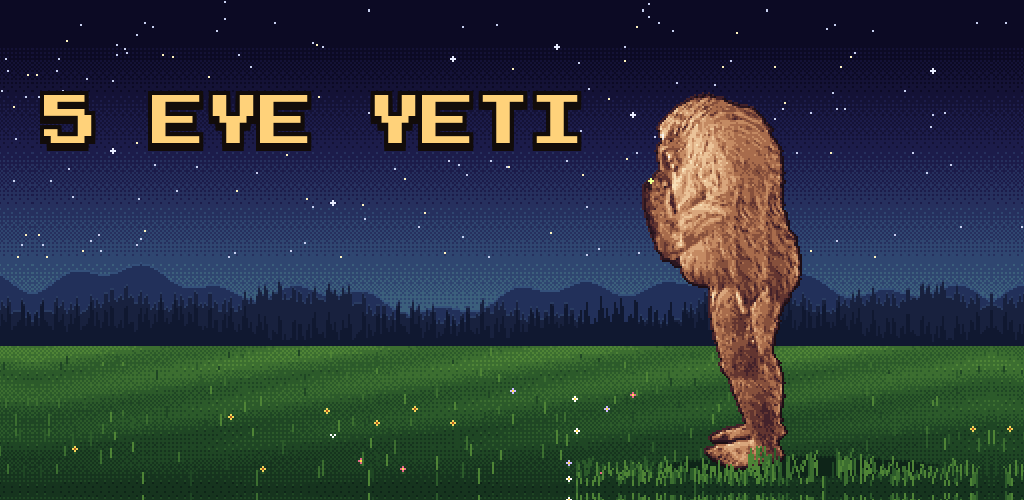
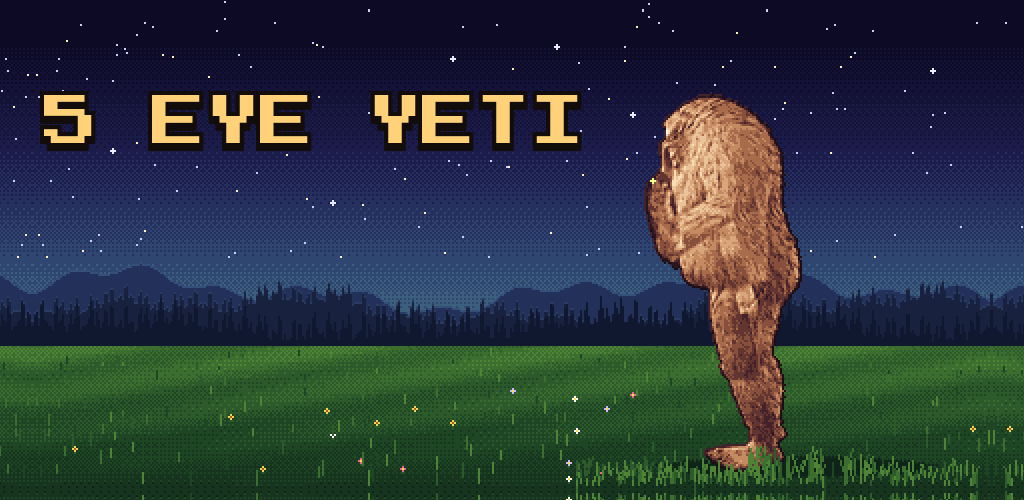
Title animation v3: turns by stepping round on his feet; one-knee kneel for the burying; legs carry one foot each (no doubled legs); body ends on the hip line (no ghost thigh); smooth fill where the arm was (no patches); longer, softer neck bend
Claude-Session: https://claude.ai/code/session_01JpLHzsYAvEKzmccr94t7N9

Changed region(s): [[0.625, 0.18, 0.8438, 0.96]]

diff --git a/android/play/concepts/pixel/story3.py b/android/play/concepts/pixel/story3.py
@@ -1,0 +1,260 @@
+"""5 Eye Yeti title story, v2. The yeti minds his own business in a starlit clearing:
+watches a firefly, swipes with both hands and misses, steps after it, lunges and misses
+again as it zips over his head, then slowly cups his hands around it and claps them shut.
+He peeks at it, turns around (through his back, never toward the viewer), walks a couple
+of steps, kneels one knee at a time like a person, scratches a little hole, lays the
+firefly in, covers it with three scoops, pats it down, looks at it a moment, gets up the
+way people do (front foot, push, stand), turns back and idles while a new one drifts in.
+
+Channels are keyed separately and eased; his head follows the firefly when he watches it.
+Writes title_bg.png, title_fg.png, yeti_frames.png and title_story.json into OUT."""
+import sys, os, math, json, random
+sys.path.insert(0, '.')
+from PIL import Image
+import numpy as np
+import rig3, rig4, pxfast
+
+OUT = sys.argv[1]
+FPS = 15
+FEET = 228
+# ---------------- background (the clearing; no moon) and foreground grass
+src = open('yeti_dig.py').read()
+ns = {}
+exec(src[:src.index("# ---------------- frames")].replace("import siderig\n", "").replace("OUT = sys.argv[1]", "OUT = '" + OUT + "'").replace(
+    "for y in range(FEET - 7, FEET + 5):", "for y in range(0):").replace("for _ in range(30):   # loose clods", "for _ in range(0):   # loose clods").replace(
+    "FEET, BODYX = 228, 380", "FEET, BODYX = 228, 382"), ns)
+W, H, GRASS, rnd = ns['W'], ns['H'], ns['GRASS'], random.Random(21)
+
+# ---------------- keyframes
+CH = ['torso', 'head', 'nsh', 'nel', 'fsh', 'fel', 'nth', 'nsn', 'fth', 'fsn', 'hipx', 'lift', 'tuck', 'look', 'breath', 'bl', 'br']
+REST = dict(torso=0, head=0, nsh=-8, nel=0, fsh=-4, fel=0, nth=0, nsn=0, fth=0, fsn=0, hipx=392, lift=0, tuck=0, look=1, breath=1, bl=0, br=0)
+keys = {c: [] for c in CH}
+views = []        # (time, view, face)
+def K(t, **kw):
+    for c, v in kw.items(): keys[c].append((t, v))
+def V(t, view, face): views.append((t, view, face))
+HOLD = dict(nsh=-70, nel=-118, fsh=-64, fel=-110)
+STAND_LEGS = dict(nth=0, nsn=0, fth=0, fsn=0)
+
+K(0.0, **REST); V(0.0, 'S', 'L')
+# watching; then miss 1: crouch back (anticipation), two-handed swipe up-forward, clap on nothing
+K(1.0, torso=1, nsh=-8, fsh=-4, look=1, breath=1, **STAND_LEGS)
+K(1.28, torso=-5, nsh=18, nel=-10, fsh=24, fel=-10, nth=-12, nsn=24, fth=-12, fsn=24, breath=0)
+K(1.48, torso=13, nsh=-128, nel=-22, fsh=-118, fel=-32, nth=4, nsn=0, fth=4, fsn=0)
+K(1.6, nel=-8, fel=-14)
+K(2.05, torso=2, nsh=-12, nel=-6, fsh=-6, fel=-4, nth=0, fth=0, nsn=0, fsn=0)
+# two steps after it (alternating legs, a little bob)
+def step(t0, dur, x0, x1, lead):
+    a, b = ('nth', 'nsn'), ('fth', 'fsn')
+    sw, st = (a, b) if lead == 'n' else (b, a)
+    K(t0, hipx=x0, **{sw[0]: 0, sw[1]: 0, st[0]: 0, st[1]: 0}, lift=0)
+    K(t0 + dur * 0.5, **{sw[0]: -20, sw[1]: 34, st[0]: 8, st[1]: 4}, lift=2)
+    K(t0 + dur, hipx=x1, **{sw[0]: -16, sw[1]: 6, st[0]: 16, st[1]: 8}, lift=0)
+step(2.05, 0.42, 392, 378, 'n'); step(2.47, 0.42, 378, 364, 'f')
+K(2.95, **STAND_LEGS)
+# miss 2: lunge low with the near arm (front leg bends, back leg straight), it zips up over his head
+K(3.05, torso=3, nsh=-10, fsh=-6)
+K(3.4, torso=34, nsh=-72, nel=-4, fsh=-48, fel=-8, fth=-46, fsn=46, nth=18, nsn=6, hipx=356)
+K(3.55, torso=36, nsh=-80)
+K(4.05, torso=4, nsh=-10, nel=0, fsh=-6, fel=0, fth=0, fsn=0, nth=0, nsn=0, hipx=362)
+# patient catch: slowly bring both hands up around it, then clap
+K(4.3, nsh=-12, fsh=-8)
+K(5.15, nsh=-150, nel=-44, fsh=-142, fel=-52, torso=-3)
+K(5.32, nel=-12, fel=-20)
+# bring the cupped hands down, look at them, a little happy bounce
+K(5.6, nsh=-140, fsh=-132)
+K(6.15, look=1, **HOLD, torso=6, lift=0)
+K(6.3, look=0, head=12, lift=3)
+K(6.45, lift=0)
+K(6.95, head=15, torso=8)
+# turn around the way people do: weight shifts, then small alternating steps carry him round,
+# through his back (never toward the viewer). Each view gets a step: one foot lifts and plants.
+def turn(t0, from_face, to_face):
+    K(t0, nth=0, nsn=0, fth=0, fsn=0, head=0, torso=1)
+    K(t0 + 0.12, nth=-12, nsn=28, torso=3)                    # first step: the near foot lifts as he starts to turn
+    V(t0 + 0.2, 'B34', from_face)
+    K(t0 + 0.2, nth=0, nsn=0, bl=1, br=0, tuck=0.3)
+    K(t0 + 0.34, bl=0); K(t0 + 0.42, br=1)
+    V(t0 + 0.48, 'B', from_face)
+    K(t0 + 0.56, br=0); K(t0 + 0.64, bl=1)
+    V(t0 + 0.76, 'B34', to_face)
+    K(t0 + 0.78, bl=0); K(t0 + 0.88, br=1)
+    V(t0 + 1.02, 'S', to_face)
+    K(t0 + 1.02, br=0, bl=0, fth=-12, fsn=28, tuck=0)           # last step brings the other foot round
+    K(t0 + 1.18, fth=0, fsn=0, torso=1)
+turn(7.0, 'L', 'R')
+# two steps to a spot of his choosing (facing right now; hipx grows)
+step(8.25, 0.45, 362, 376, 'n'); step(8.7, 0.45, 376, 390, 'f')
+K(9.15, **STAND_LEGS, torso=2)
+# kneel like a person: the near foot steps back, that knee lowers to the ground, the front
+# foot stays planted; then he leans over the front knee to work
+KN = dict(nth=6, nsn=96, fth=-78, fsn=82)
+K(9.45, nth=16, nsn=22, fth=-14, fsn=16, torso=6, head=8)                     # step back
+K(9.95, **KN, torso=14, head=12)                                              # knee down
+K(10.3, torso=30, head=16, nsh=-30, nel=-4, fsh=-60, fel=-110)                # lean in, the far hand still holds it
+# scratch a little hole with the near hand
+for i in range(2):
+    t = 10.3 + i * 0.34
+    K(t + 0.17, nsh=-64, nel=-14, torso=40); K(t + 0.34, nsh=-18, nel=-2, torso=42)
+# lay it in: both hands down to the hole
+K(11.35, torso=44, nsh=-24, nel=-4, fsh=-28, fel=-6, head=18)
+K(11.8, torso=42, nsh=-14, fsh=-12)
+# three scoops, alternating hands, pulling earth over it
+for i, (sh, el) in enumerate((('nsh', 'nel'), ('fsh', 'fel'), ('nsh', 'nel'))):
+    t = 11.8 + i * 0.6
+    K(t + 0.25, **{sh: -62, el: -12}, torso=46); K(t + 0.6, **{sh: -12, el: 0}, torso=42)
+# pat, pat
+K(13.8, nsh=-30, nel=-26, fsh=-24, fel=-20); K(13.95, nsh=-22, nel=-4, fsh=-18, fel=-2)
+K(14.15, nsh=-30, nel=-26); K(14.3, nsh=-22, nel=-4)
+# a moment, looking at it
+K(14.9, head=18, torso=40, nsh=-16, nel=0, fsh=-10, fel=0, **KN)
+# get up: lean over the front foot, push, the back knee comes up, stand
+K(15.3, torso=34, head=10, nsh=-12, fsh=-8)
+K(15.75, fth=-40, fsn=44, nth=4, nsn=46, torso=22, head=4)
+K(16.2, **STAND_LEGS, torso=2, head=0, nsh=-8, fsh=-4)
+turn(16.3, 'R', 'L')
+# idle while a new firefly drifts down; he looks up at it
+K(17.6, look=1, breath=1)
+K(18.6, hipx=390)
+DUR = 20.0
+K(DUR, **REST)
+
+def ease(u): return u * u * (3 - 2 * u)
+def chan(c, t):
+    ks = keys[c]
+    if not ks: return REST[c]
+    if t <= ks[0][0]: return ks[0][1]
+    for (t0, v0), (t1, v1) in zip(ks, ks[1:]):
+        if t0 <= t <= t1: return v0 + (v1 - v0) * ease((t - t0) / max(1e-6, t1 - t0))
+    return ks[-1][1]
+for c in CH: keys[c].sort(key=lambda kv: kv[0])
+views.sort()
+def view_at(t):
+    v = views[0]
+    for x in views:
+        if x[0] <= t: v = x
+    return v[1], v[2]
+
+# ---------------- the firefly: free (with jitter), dodging, caught, carried, laid in the hole
+FK = [(0.0, 352, 78), (1.0, 348, 84), (1.36, 344, 70), (1.62, 300, 150), (2.4, 296, 142), (3.0, 292, 150), (3.42, 300, 150), (3.62, 340, 36), (4.2, 352, 28), (5.15, 348, 34)]
+def free_fly(t):
+    for (t0, x0, y0), (t1, x1, y1) in zip(FK, FK[1:]):
+        if t0 <= t <= t1:
+            u = ease((t - t0) / (t1 - t0)); x, y = x0 + (x1 - x0) * u, y0 + (y1 - y0) * u
+            return x + 3.0 * math.sin(t * 5.3) + 1.5 * math.sin(t * 11.0), y + 2.2 * math.sin(t * 6.7 + 1)
+    return FK[-1][1] + 3 * math.sin(t * 5.3), FK[-1][2] + 2 * math.sin(t * 6.7)
+T_CLAP, T_PLACE, T_COVER0, T_COVERED = 5.3, 11.35, 11.8, 13.6
+SCOOPS = [11.8 + i * 0.6 + 0.45 for i in range(3)]
+DIGS = [10.3 + i * 0.34 + 0.17 for i in range(2)]
+
+# ---------------- simulate and render
+side = rig4.Side(); b = rig4.back(); b34 = rig4.back34()
+LO = {'S': pxfast.lum_offset(side.src), 'B': pxfast.lum_offset(b.src), 'B34': pxfast.lum_offset(b34.src)}
+KV = {'S': 0.17 / rig3.S, 'B': 189 / 902 / rig3.S, 'B34': 189 / 1094 / rig3.S}
+cache = {}; sprites = []; steps = []; hands = []; eyes = []
+N = int(DUR * FPS)
+prev_fly = None
+for n in range(N):
+    t = n / FPS
+    v = {c: chan(c, t) for c in CH}
+    view, face = view_at(t)
+    # breathing while idle
+    v['torso'] += v['breath'] * 1.3 * math.sin(2 * math.pi * t / 3.2)
+    fx, fy = free_fly(t)
+    key_pose = None
+    if view == 'S':
+        # head follows the firefly while he watches it (needs the eye position: one cheap pass with head 0)
+        if v['look'] > 0.01 and t < T_CLAP:
+            _, info0 = side.pose(**{k: v[k] for k in ('torso', 'nsh', 'nel', 'fsh', 'fel', 'nth', 'nsn', 'fth', 'fsn')}) if False else (None, None)
+        pose = {k: v[k] for k in ('torso', 'head', 'nsh', 'nel', 'fsh', 'fel', 'nth', 'nsn', 'fth', 'fsn')}
+        if v['look'] > 0.01 and t < T_CLAP:
+            # approximate eye: above the hip by his height; angle to the firefly (left-facing frame)
+            ex = v['hipx'] + (-1 if face == 'L' else 1) * 30; ey = FEET - 158 + (v['torso'] * 0.6)
+            dx = (ex - fx) if face == 'L' else (fx - ex); dy = fy - ey
+            look = max(-16, min(16, math.degrees(math.atan2(dy, max(8, abs(dx)))) * 0.7))
+            pose['head'] = pose['head'] * (1 - v['look']) + look * v['look']
+        key_pose = ('S', face) + tuple(int(round(pose[k] / 2.0)) for k in pose)
+    else:
+        key_pose = (view, face, int(round(v['tuck'] * 10)), int(round(v['bl'] * 4)), int(round(v['br'] * 4)))
+    if key_pose not in cache:
+        if view == 'S':
+            im, info = side.pose(**pose)
+        else:
+            im, info = (b if view == 'B' else b34).pose(v['tuck'], (key_pose[3] / 4, key_pose[4] / 4))
+        bb = im.getbbox(); im = im.crop(bb)
+        hip = (info['hip'][0] - bb[0], info['hip'][1] - bb[1])
+        hn = (info['nhand'][0] - bb[0], info['nhand'][1] - bb[1]) if 'nhand' in info else None
+        hf = (info['fhand'][0] - bb[0], info['fhand'][1] - bb[1]) if 'fhand' in info else None
+        if face == 'R':
+            im = im.transpose(Image.FLIP_LEFT_RIGHT)
+            hip = (im.width - hip[0], hip[1])
+            if hn: hn = (im.width - hn[0], hn[1]); hf = (im.width - hf[0], hf[1])
+        a = np.asarray(im)[..., 3] > 110
+        low = int(np.nonzero(a.any(axis=1))[0].max())
+        cache[key_pose] = (im, hip, hn, hf, low, view)
+    im, hip, hn, hf, low, vw = cache[key_pose]
+    k = KV[vw]
+    ox = int(round(v['hipx'] - hip[0] * k)); oy = int(round(FEET + 1 - low * k - v['lift']))
+    rk = (key_pose, ox, oy)
+    if rk not in cache:
+        spr, sx0, sy0 = pxfast.pixelize(im, k, ox, oy, LO[vw], eyes_above=FEET - 130)
+        cache[rk] = len(sprites); sprites.append((spr, sx0, sy0))
+    steps.append(cache[rk])
+    hands.append(((ox + hn[0] * k, oy + hn[1] * k), (ox + hf[0] * k, oy + hf[1] * k)) if hn else None)
+print('distinct sprites', len(sprites), 'steps', N)
+
+# the hole is where his hands meet the ground when he lays it in
+pi = int(T_PLACE * FPS)
+hp = hands[pi] or hands[pi - 1]
+HOLE = ((hp[0][0] + hp[1][0]) / 2, FEET - 1)
+fly = []
+for n in range(N):
+    t = n / FPS
+    if t < T_CLAP - 0.12:
+        x, y = free_fly(t); a = 1.0; state = 0
+    elif t < T_PLACE:
+        h = hands[n]
+        if h: x, y = (h[0][0] + h[1][0]) / 2, (h[0][1] + h[1][1]) / 2; state = 1
+        else: x, y = fly[-1][0], fly[-1][1]; state = 2     # hidden in his hands while he turns
+        if t < T_CLAP:
+            u = (t - (T_CLAP - 0.12)) / 0.12; fx_, fy_ = free_fly(t); x, y = fx_ + (x - fx_) * u, fy_ + (y - fy_) * u
+        a = 1.0
+    else:
+        x, y = HOLE; state = 3
+        a = 1.0 - 0.8 * min(1, max(0, (t - T_COVER0) / (T_COVERED - T_COVER0)))
+        if t > T_COVERED: a = 0.2 * max(0.0, 1 - (t - T_COVERED) / 3.0)
+    fly.append([round(x, 1), round(y, 1), round(a, 2), state])
+# a new one drifts down from the sky toward where the next chase starts
+T_NEW = 17.6
+for n in range(int(T_NEW * FPS), N):
+    u = ease((n / FPS - T_NEW) / (DUR - T_NEW)); x0, y0 = 300, 6; x1, y1 = free_fly(0.0)
+    fly[n] = [round(x0 + (x1 - x0) * u, 1), round(y0 + (y1 - y0) * u, 1), round(min(1, u * 3), 2), 4]
+
+# ---------------- pack sprites (shelves, 2048 wide)
+order = sorted(range(len(sprites)), key=lambda i: -sprites[i][0].height)
+SW = 2048; x = y = shelf = 0; place = {}
+for i in order:
+    s = sprites[i][0]
+    if x + s.width > SW: x = 0; y += shelf; shelf = 0
+    place[i] = (x, y); x += s.width; shelf = max(shelf, s.height)
+sheet = Image.new('RGBA', (SW, y + shelf), (0, 0, 0, 0))
+meta = []
+for i, (s, sx0, sy0) in enumerate(sprites):
+    px_, py_ = place[i]; sheet.paste(s, (px_, py_)); meta.append([px_, py_, s.width, s.height, sx0, sy0])
+sheet.save(os.path.join(OUT, 'yeti_frames.png'), optimize=True)
+json.dump({'fps': FPS, 'duration': DUR, 'frames': meta, 'steps': steps, 'fly': fly, 'hole': [round(HOLE[0], 1), HOLE[1]],
+           'place': T_PLACE, 'scoops': SCOOPS, 'digs': DIGS, 'covered': T_COVERED, 'facing_at_dig': 'R'},
+          open(os.path.join(OUT, 'title_story.json'), 'w'))
+# foreground: a few blades of grass in front of his feet
+fg = Image.new('RGBA', (W, H), (0, 0, 0, 0)); fp = fg.load()
+for _ in range(260):
+    xx = 392 + rnd.randrange(-120, 80); base = FEET + rnd.randrange(2, 10)
+    # taller around where he kneels, so his folded legs sink into the meadow
+    near = abs(xx - 388) < 30
+    h = rnd.randrange(8, 16) if near else rnd.randrange(3, 9); lean = rnd.choice((-1, 0, 0, 1)); col = GRASS[rnd.choice((3, 4, 5, 5))]
+    if near and abs(xx - HOLE[0]) < 5: continue   # keep the hole itself in view
+    for k3 in range(h):
+        x2 = xx + lean * (k3 // 3); y2 = base - k3
+        if 0 <= x2 < W and 0 <= y2 < H: fp[x2, y2] = (*col, 255)
+fg.save(os.path.join(OUT, 'title_fg.png'))
+print('ok', sheet.size, 'hole', HOLE)

diff --git a/android/play/concepts/pixel/rig4.py b/android/play/concepts/pixel/rig4.py
@@ -22,7 +22,7 @@ class Side:
     ARM = rig3.Side.ARM
     def __init__(self):
         raw = Image.open('side.png')
-        noarm = rig3.Side._inpaint_arm(rig3.Side, raw)
+        noarm = self._inpaint(raw)
         self.src = raw
         sz = (round(raw.width * S), round(raw.height * S))
         self.PAD = pad = 360
@@ -56,8 +56,10 @@ class Side:
         self.upper = part(a, upper_w); self.fore = part(a, fore_w)
         self.fupper = self.upper.copy(); self.fupper[..., :3] = (self.fupper[..., :3] * 0.82).astype(np.uint8)
         self.ffore = self.fore.copy(); self.ffore[..., :3] = (self.ffore[..., :3] * 0.82).astype(np.uint8)
+        # the hip line: front of the thigh (low) up through the hip joint to the buttocks (lower at the back)
+        hipline = np.interp(sx, [0, 110, 235, 330, 400], [575, 590, 612, 650, 660])
         # legs: everything below the hip line, faded in so the top tucks under the body
-        lf = skin.ss((sy - 585) / 50.0)
+        lf = skin.ss((sy - hipline + 45) / 40.0)
         l = body.copy(); l[..., 3] = (l[..., 3] * lf).astype(np.uint8)
         self.leg = l
         thw = 1 - skin.ss((sy - self.KNEE[1] - 8) / 30.0); snw = skin.ss((sy - self.KNEE[1] + 22) / 30.0)
@@ -67,13 +69,40 @@ class Side:
         dk = lambda im: np.concatenate([(im[..., :3] * 0.88).astype(np.uint8), im[..., 3:4]], 2)
         self.fthigh = dk(self.thigh); self.fshin = dk(self.shin)
         # body: everything above the legs (head included), fading out over the thighs
-        bf = 1 - skin.ss((sy - 640) / 40.0)
+        bf = 1 - skin.ss((sy - hipline + 4) / 18.0)
         bd = body.copy(); bd[..., 3] = (bd[..., 3] * bf).astype(np.uint8)
         self.body = bd
         # joint directions for the arm weights
         hx, hy = self.HAND; shx, shy = self.SHOULDER; L = math.hypot(hx - shx, hy - shy)
         self.adir = ((hx - shx) / L, (hy - shy) / L)
         self.s_el = (self.ELBOW[0] - shx) * self.adir[0] + (self.ELBOW[1] - shy) * self.adir[1]
+
+    FARFOOT = [(90, 984), (214, 984), (218, 1022), (205, 1041), (90, 1046)]
+
+    def _inpaint(self, raw):
+        """Paint the near arm out of the body: a smooth fill of the surrounding fur, with fur
+        texture borrowed from the body behind it blended in softly (no hard-edged patches).
+        Also removes the far foot, so each leg layer carries exactly one foot."""
+        a = np.asarray(raw).copy()
+        m = Image.new('L', raw.size, 0); d = ImageDraw.Draw(m); d.polygon(self.ARM, fill=255)
+        m = np.asarray(m.filter(ImageFilter.MaxFilter(7)))
+        inside = (a[..., 3] > 0).astype(np.uint8)
+        fill = cv2.inpaint(np.ascontiguousarray(a[..., :3]), ((m > 0) & (inside > 0)).astype(np.uint8) * 255, 9, cv2.INPAINT_TELEA)
+        # texture: the fur 100 px further back (or 110 px forward where that falls outside the body)
+        tex = np.roll(a[..., :3], -100, axis=1); ok = np.roll(inside, -100, axis=1)
+        tex2 = np.roll(a[..., :3], 110, axis=1); ok2 = np.roll(inside, 110, axis=1)
+        tex = np.where(ok[..., None] > 0, tex, np.where(ok2[..., None] > 0, tex2, fill))
+        detail = tex.astype(np.float32) - cv2.GaussianBlur(tex.astype(np.float32), (0, 0), 6)
+        painted = np.clip(fill.astype(np.float32) + detail * 0.9, 0, 255)
+        soft = cv2.GaussianBlur((m > 0).astype(np.float32), (0, 0), 4)[..., None]
+        out = a.astype(np.float32)
+        out[..., :3] = painted * soft + out[..., :3] * (1 - soft)
+        out = out.astype(np.uint8)
+        # drop the far foot: it is drawn again (darker) by the far-leg layer, from the near foot
+        ff = Image.new('L', raw.size, 0); ImageDraw.Draw(ff).polygon(self.FARFOOT, fill=255)
+        ff = np.asarray(ff.filter(ImageFilter.GaussianBlur(1.5))).astype(np.float32) / 255
+        out[..., 3] = (out[..., 3] * (1 - ff)).astype(np.uint8)
+        return Image.fromarray(out)
 
     # ---- weights (functions of canvas coordinates of the *source* pixel)
     def src_xy(self, x, y): return (x - self.PAD) / S, (y - self.PAD) / S
@@ -90,7 +119,7 @@ class Side:
         sx, sy = self.src_xy(x, y)
         # the head: above and in front of the neck
         up = (self.NECK[1] - sy) + 0.35 * (self.NECK[0] - sx)
-        wh = skin.ss((up + 10) / 55.0) * (1 - skin.ss((sx - 300) / 60.0))
+        wh = skin.ss((up + 40) / 120.0) * (1 - skin.ss((sx - 250) / 120.0))
         return [1 - wh, wh]
 
     def pose(self, torso=0, head=0, nsh=-8, nel=0, fsh=-4, fel=0, nth=0, nsn=0, fth=0, fsn=0):
@@ -130,7 +159,7 @@ class Side:
 
 class Back:
     """Back views: the arms come down from the T-pose, skinned at the shoulder (they stay attached)."""
-    def __init__(self, name, arms, lhang, rhang):
+    def __init__(self, name, arms, lhang, rhang, crotch):
         raw = Image.open(name); self.src = raw
         sz = (round(raw.width * S), round(raw.height * S)); self.PAD = pad = 300
         self.W, self.H = sz[0] + 2 * pad, sz[1] + 2 * pad
@@ -154,11 +183,39 @@ class Back:
         dome = al.filter(ImageFilter.GaussianBlur(14)).point(lambda v: 255 if v > 140 else 0)
         from PIL import ImageChops
         bi.putalpha(Image.composite(ImageChops.multiply(dome, al), al, top))
-        self.body = np.asarray(bi).copy()
+        b = np.asarray(bi).copy()
+        # legs, split at the crotch, so each foot can step during a turn
+        cx_, cy_ = crotch
+        legf = skin.ss((sy - cy_ + 70) / 40.0)
+        self.legs = []
+        for side in (0, 1):
+            m = (sx < cx_) if side == 0 else (sx >= cx_)
+            l = b.copy(); l[..., 3] = (b[..., 3] * legf * m).astype(np.uint8)
+            self.legs.append(l)
+        bodyf = 1 - skin.ss((sy - cy_ - 10) / 20.0)
+        b[..., 3] = (b[..., 3] * bodyf).astype(np.uint8)
+        self.body = b
+        self.crotch = (cx_ * S + pad, cy_ * S + pad)
         self.hipx = ((arms[0][1][0] + arms[1][1][0]) / 2) * S + pad
 
-    def pose(self, tuck=0.0):
-        out = self.body.copy().astype(np.float32)
+    def pose(self, tuck=0.0, lift=(0.0, 0.0)):
+        """tuck: hands in toward the chest; lift: how far each foot (left, right as seen) is raised in a step."""
+        out = np.zeros((self.H, self.W, 4), np.float32)
+        for side, l in enumerate(self.legs):
+            u = lift[side]
+            if u > 0.01:
+                # a stepping foot comes up and in a little, the knee bending toward the viewer's side
+                dx = (-1 if side == 0 else 1) * 3 * u; dy = -22 * u * S
+                ang = (5 if side == 0 else -5) * u
+                M = skin.rot(ang, *self.crotch); M[0, 2] += dx; M[1, 2] += dy
+                f = l.astype(np.float32); al = f[..., 3:4] / 255
+                pm = np.concatenate([f[..., :3] * al, f[..., 3:4]], 2)
+                r = cv2.warpAffine(pm, M[:2].astype(np.float32), (self.W, self.H), flags=cv2.INTER_LINEAR, borderValue=0)
+                alr = r[..., 3:4] / 255; l = np.zeros_like(l); l[..., :3] = np.clip(np.where(alr > 1e-3, r[..., :3] / np.maximum(alr, 1e-3), 0), 0, 255); l[..., 3] = np.clip(r[..., 3], 0, 255)
+            a = l[..., 3:4].astype(np.float32) / 255
+            out[..., :3] = l[..., :3] * a + out[..., :3] * (1 - a); out[..., 3] = np.maximum(out[..., 3], l[..., 3])
+        a = self.body[..., 3:4].astype(np.float32) / 255
+        out[..., :3] = self.body[..., :3] * a + out[..., :3] * (1 - a); out[..., 3] = np.maximum(out[..., 3], self.body[..., 3])
         for layer, sh, d, hang in self.arms:
             ang = hang + (12 * tuck if hang > 0 else -12 * tuck)
             piv = (sh[0] * S + self.PAD, sh[1] * S + self.PAD)
@@ -174,8 +231,8 @@ class Back:
 def back():
     L = [(300, 240), (330, 80), (-40, 380), (-40, 640), (90, 640), (110, 560)]
     R = [(906 - x, y) for x, y in L]
-    return Back('back.png', ((L, (300, 205), (40, 500)), (R, (606, 205), (866, 500))), 40, -40)
+    return Back('back.png', ((L, (300, 205), (40, 500)), (R, (606, 205), (866, 500))), 40, -40, (453, 600))
 def back34():
     L = [(330, 330), (372, 150), (-40, 330), (-40, 700), (90, 700), (140, 620)]
     R = [(690, 380), (640, 150), (1010, 300), (1010, 700), (900, 700), (860, 640)]
-    return Back('back34.png', ((L, (320, 235), (60, 580)), (R, (690, 268), (930, 590))), 35, -35)
+    return Back('back34.png', ((L, (320, 235), (60, 580)), (R, (690, 268), (930, 590))), 35, -35, (496, 690))
